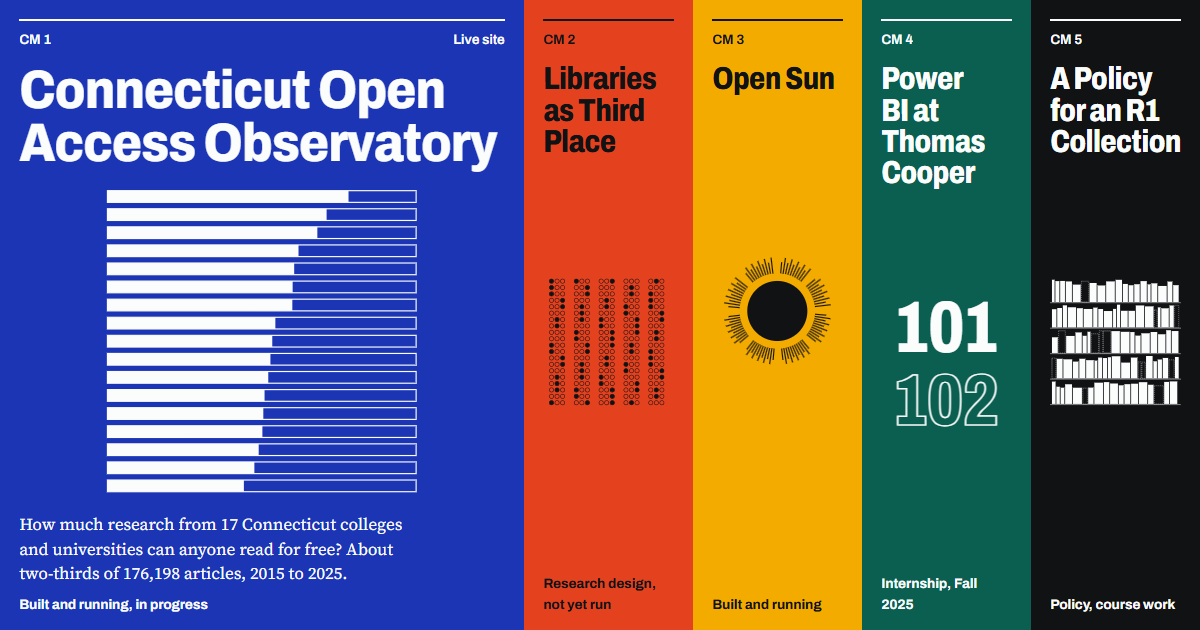
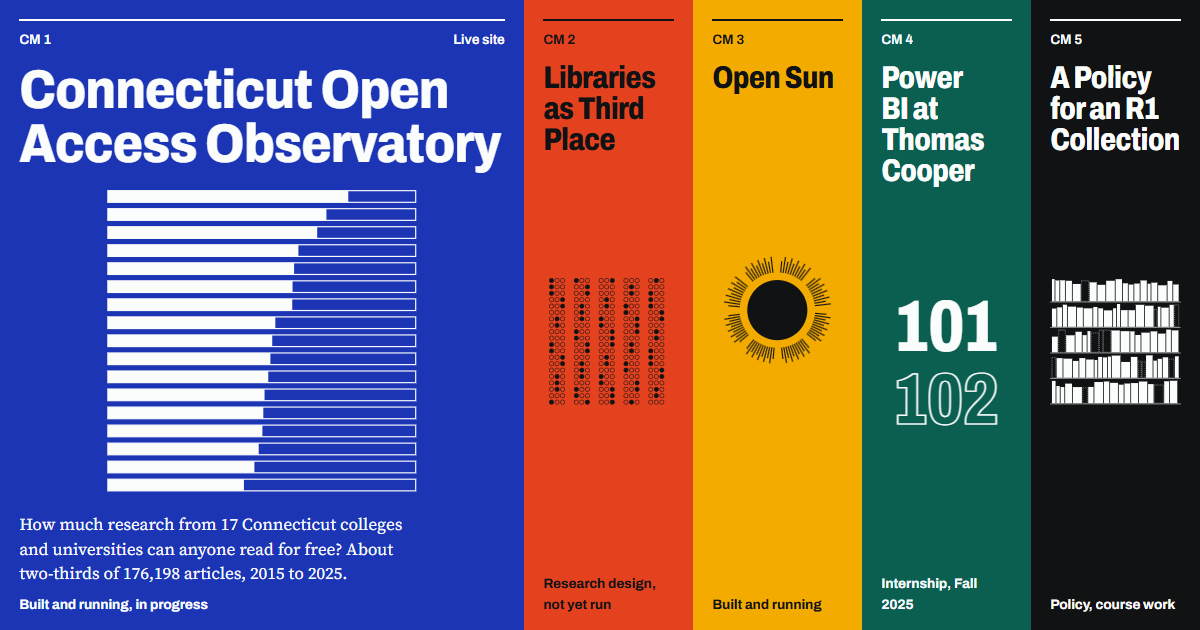
Add headshot and intro; name the Graduate Certificate in Academic Libraries
An "About the author" intro sits between the masthead and the covers:
Chris's headshot (optimized to WebP at four sizes) and a short note
introducing the site and his interests. The résumé and statement now
say Graduate Certificate.

diff --git a/src/data/site.ts b/src/data/site.ts
@@ -33,11 +33,20 @@ export const person = {
     'Portfolio of Chris Misciagna, MLIS: open access projects, library research, and academic library work, from Open Sun to the Connecticut Open Access Observatory.',
 };
 
+export const intro = {
+  lede: "I'm Chris Misciagna, an aspiring academic librarian with interests in open access and scholarly communication.",
+  body: [
+    'This site collects my work from the MLIS at the University of South Carolina and since: two open access projects I built and maintain, a research design, an internship at Thomas Cooper Library, and a collection development policy. Each cover below opens to what the project is and the thinking behind it.',
+    "What draws me to librarianship is the work of making research reachable: open access, scholarly communication, and the instruction that helps people use both. Further down you'll find my statement, more course work, and my résumé.",
+  ],
+  photoAlt: 'Chris Misciagna, smiling, in a brown sweater against a plain light background.',
+};
+
 export const statement = {
   quote: 'Scholarship and research are not commodities reserved for the privileged, but resources available to all learners',
   accent: 'regardless of income or zip code.',
   body:
-    "My career so far has been in ad research. I'm a Supervisor of Measurement at Publicis Media, and for more than four years before that I worked at Comscore, teaching clients across the country how to use advanced research software. I learned that instruction comes down to understanding what someone needs and leaving them able to do it alone. I hold an MLIS and a Certificate in Academic Libraries from the University of South Carolina, and I want to bring that experience to an academic library on the tenure track: open educational resources, publishing support for faculty, and library research of my own.",
+    "My career so far has been in ad research. I'm a Supervisor of Measurement at Publicis Media, and for more than four years before that I worked at Comscore, teaching clients across the country how to use advanced research software. I learned that instruction comes down to understanding what someone needs and leaving them able to do it alone. I hold an MLIS and a Graduate Certificate in Academic Libraries from the University of South Carolina, and I want to bring that experience to an academic library on the tenure track: open educational resources, publishing support for faculty, and library research of my own.",
 };
 
 export const projects: Project[] = [
@@ -203,7 +212,7 @@ export const resume = {
   lede: 'Ad research by trade, with over 1,000 hours of client instruction on specialized research platforms.',
   education: [
     ['Master’s, Library and Information Science', 'University of South Carolina, Dec. 2025'],
-    ['Certificate, Academic Libraries', 'University of South Carolina, Dec. 2025'],
+    ['Graduate Certificate, Academic Libraries', 'University of South Carolina, Dec. 2025'],
     ['Bachelor of Arts, Public Relations', 'Quinnipiac University, May 2020'],
     ['Certificate, Legal Studies', 'Quinnipiac University, May 2020'],
   ] as [string, string][],

diff --git a/src/styles/global.css b/src/styles/global.css
@@ -35,6 +35,15 @@ a { color: inherit; text-underline-offset: .2em; text-decoration-thickness: 1.5p
 .mast nav a { text-decoration: none; padding: .35rem 0; }
 .mast nav a:hover { text-decoration: underline; }
 
+/* Intro: the author's photo and a short note, like the inside flap of a book */
+.intro { display: grid; grid-template-columns: 18rem minmax(0, 1fr); grid-template-areas: "label label" "photo text"; gap: 1.25rem clamp(1.5rem, 4vw, 4rem); padding: clamp(1.5rem, 3vw, 2.5rem) var(--gutter) clamp(2.5rem, 5vw, 4.5rem); }
+.intro-label { grid-area: label; display: flex; justify-content: space-between; gap: 1rem; font: 600 .85rem/1.2 var(--head); border-top: 2px solid var(--ink); padding-top: .5rem; }
+.portrait { grid-area: photo; width: 100%; height: auto; aspect-ratio: 1; object-fit: cover; display: block; background: #e9e4dc; }
+.intro-text { grid-area: text; align-self: start; }
+.intro-text p { max-width: 64ch; }
+.intro h1 { font: 800 clamp(1.9rem, 3.3vw, 3.4rem)/1.03 var(--head); font-stretch: 84%; letter-spacing: -.02em; max-width: 26ch; text-wrap: balance; margin-bottom: 1.25rem; }
+.intro-text p + p { margin-top: .9rem; }
+
 /* The shelf: faced-out covers */
 .shelf { display: flex; height: calc(100svh - 3.4rem); min-height: 560px; max-height: 1080px; list-style: none; padding: 0; }
 .cover { flex: 1 1 0; min-width: 0; background: var(--bg); color: var(--fg); position: relative; overflow: hidden; transition: flex-grow .55s var(--ease); }
@@ -126,6 +135,13 @@ a { color: inherit; text-underline-offset: .2em; text-decoration-thickness: 1.5p
   .cover .num span:last-child, .cover:not(.on) .num span:last-child { display: inline; }
   .mast { flex-wrap: wrap; }
   .mast .line { display: none; }
+  .intro { grid-template-columns: 14rem minmax(0, 1fr); }
+}
+@media (max-width: 700px) {
+  .intro { grid-template-columns: 9.5rem minmax(0, 1fr); grid-template-areas: "label label" "photo ." "text text"; row-gap: 1.5rem; }
+  .intro-label span:last-child { display: none; }
+}
+@media (max-width: 1000px) {
   .shelf { flex-direction: column; height: auto; max-height: none; min-height: 0; }
   .cover, .cover.on { flex: none; height: min(118vw, 620px); }
   .cover.on .title, .title { font-size: clamp(2.6rem, 11vw, 4rem); font-stretch: 88%; width: auto; }
